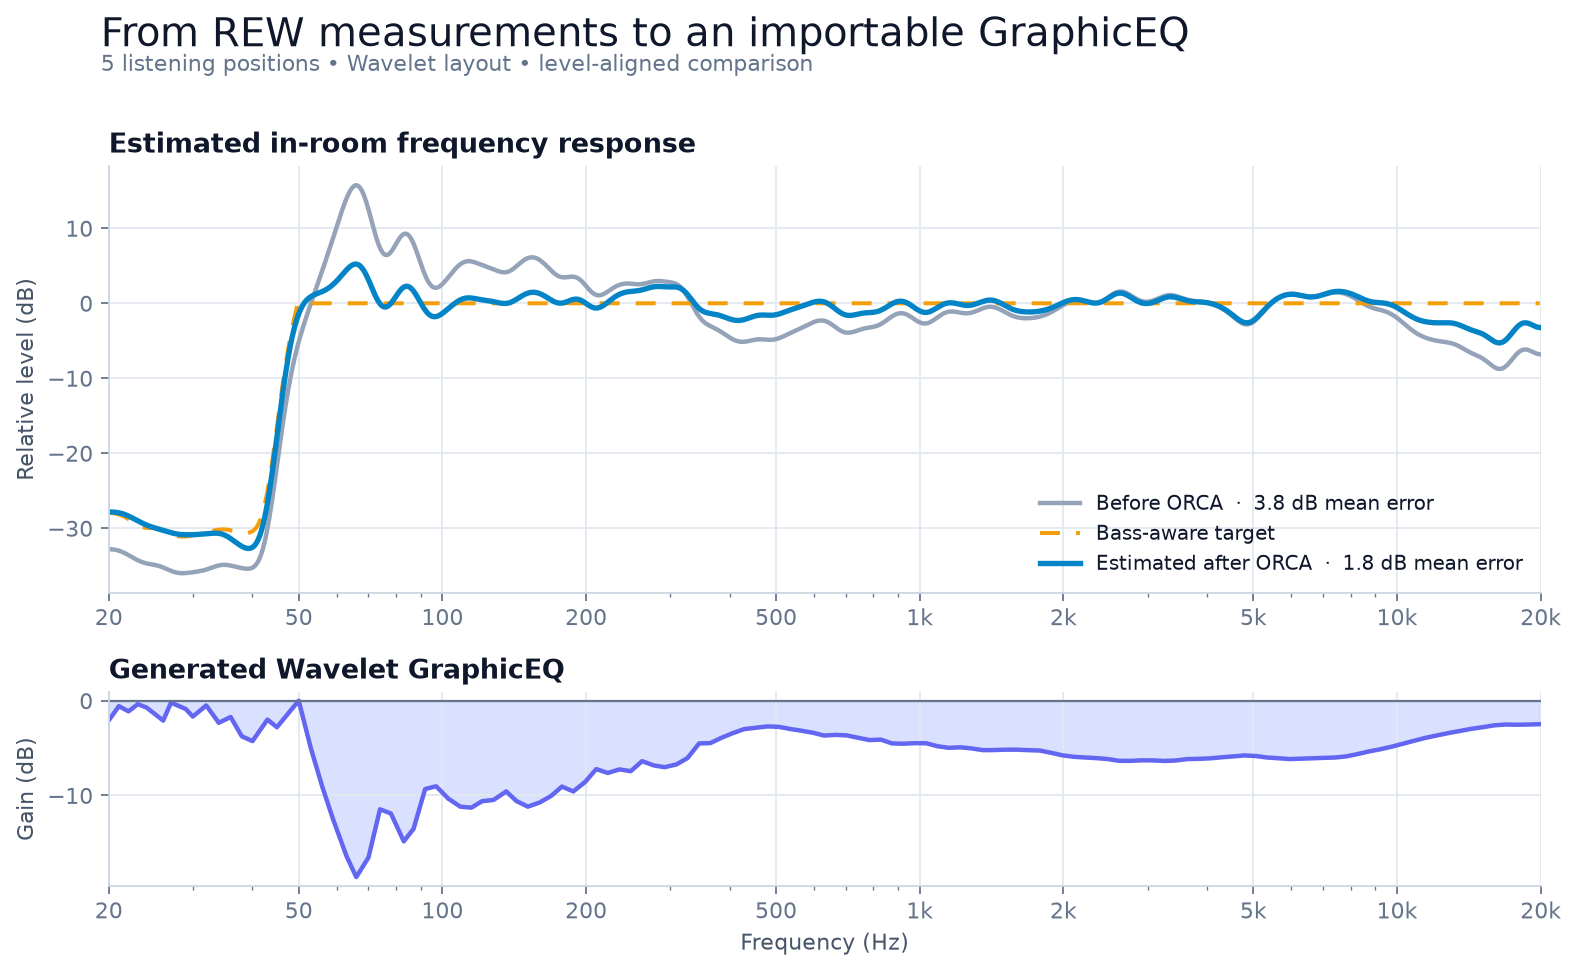
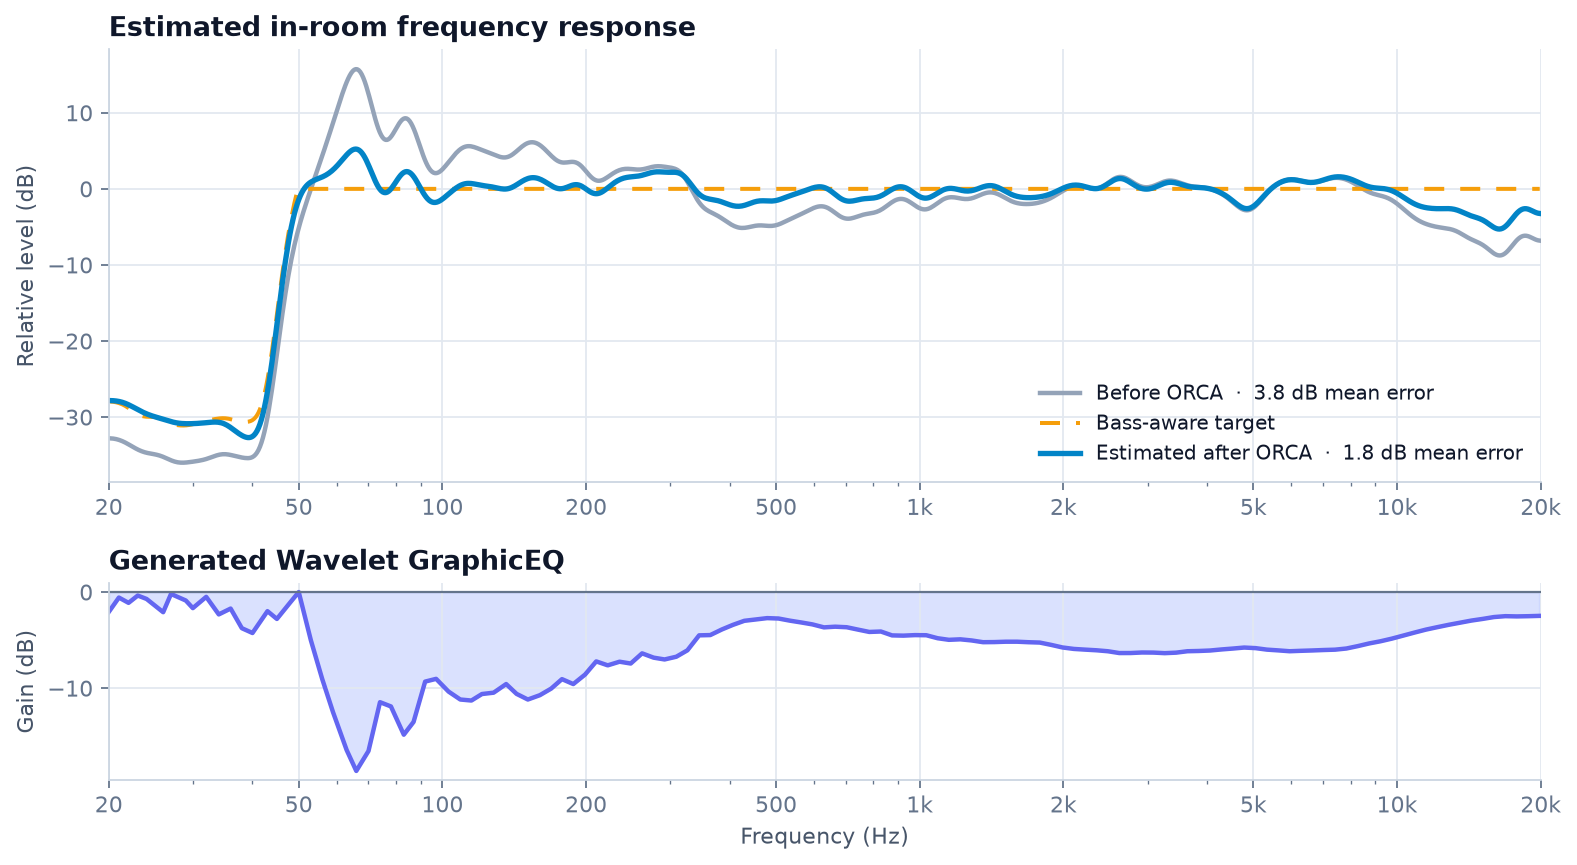
Simplify README overview placement

diff --git a/docs/generate_readme_assets.py b/docs/generate_readme_assets.py
@@ -92,26 +92,12 @@ def main() -> None:
     figure, (response_axis, eq_axis) = pyplot.subplots(
         2,
         1,
-        figsize=(10, 6.25),
+        figsize=(10, 5.5),
         dpi=160,
         gridspec_kw={"height_ratios": (2.2, 1), "hspace": 0.32},
     )
     figure.patch.set_facecolor("white")
-    figure.suptitle(
-        "From REW measurements to an importable GraphicEQ",
-        x=0.08,
-        y=0.97,
-        horizontalalignment="left",
-        fontsize=18,
-    )
-    figure.text(
-        0.08,
-        0.915,
-        f"{len(measurement_paths)} listening positions • Wavelet layout • level-aligned comparison",
-        color="#64748b",
-        fontsize=10,
-    )
-    figure.subplots_adjust(top=0.82, bottom=0.1, left=0.085, right=0.98)
+    figure.subplots_adjust(top=0.94, bottom=0.11, left=0.085, right=0.98)
 
     response_axis.plot(
         frequencies,

diff --git a/README.md b/README.md
@@ -6,8 +6,6 @@
 ![Python 3.9+](https://img.shields.io/badge/Python-3.9%2B-3776AB?logo=python&logoColor=white)
 [![License: MIT](https://img.shields.io/badge/License-MIT-yellow.svg)](LICENSE)
 
-![Measured room response, ORCA target, estimated corrected response, and generated equalizer](docs/assets/orca-overview.png)
-
 ORCA takes one or more frequency-response measurements exported from
 [Room EQ Wizard (REW)](https://www.roomeqwizard.com/), calculates a correction curve, and
 outputs a `GraphicEQ` definition for software equalizers such as
@@ -17,6 +15,8 @@ outputs a `GraphicEQ` definition for software equalizers such as
 Unlike workflows built around a small set of parametric filters, ORCA optimizes the actual
 GraphicEQ control points that will be exported. The result can follow room-response problems in
 detail while becoming progressively smoother toward higher frequencies.
+
+![Measured room response, ORCA target, estimated corrected response, and generated equalizer](docs/assets/orca-overview.png)
 
 ## Why ORCA?
 
